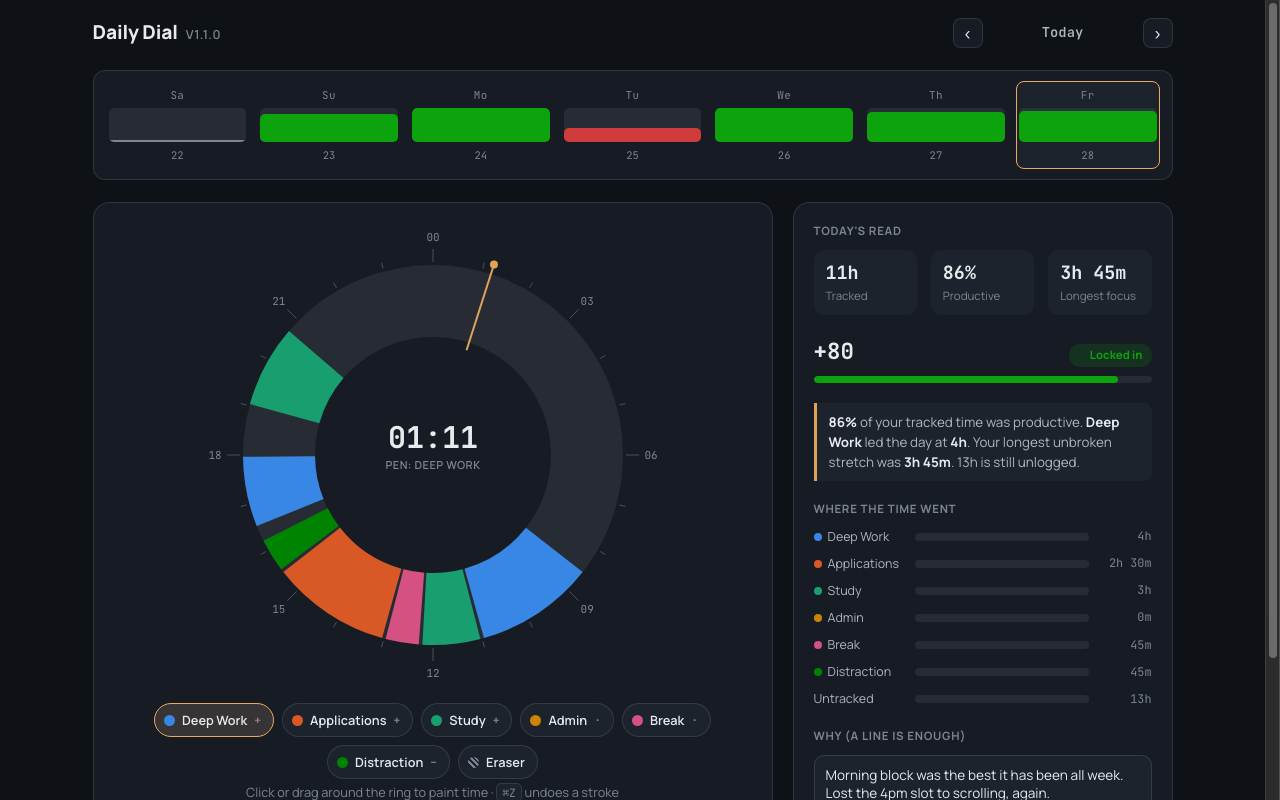
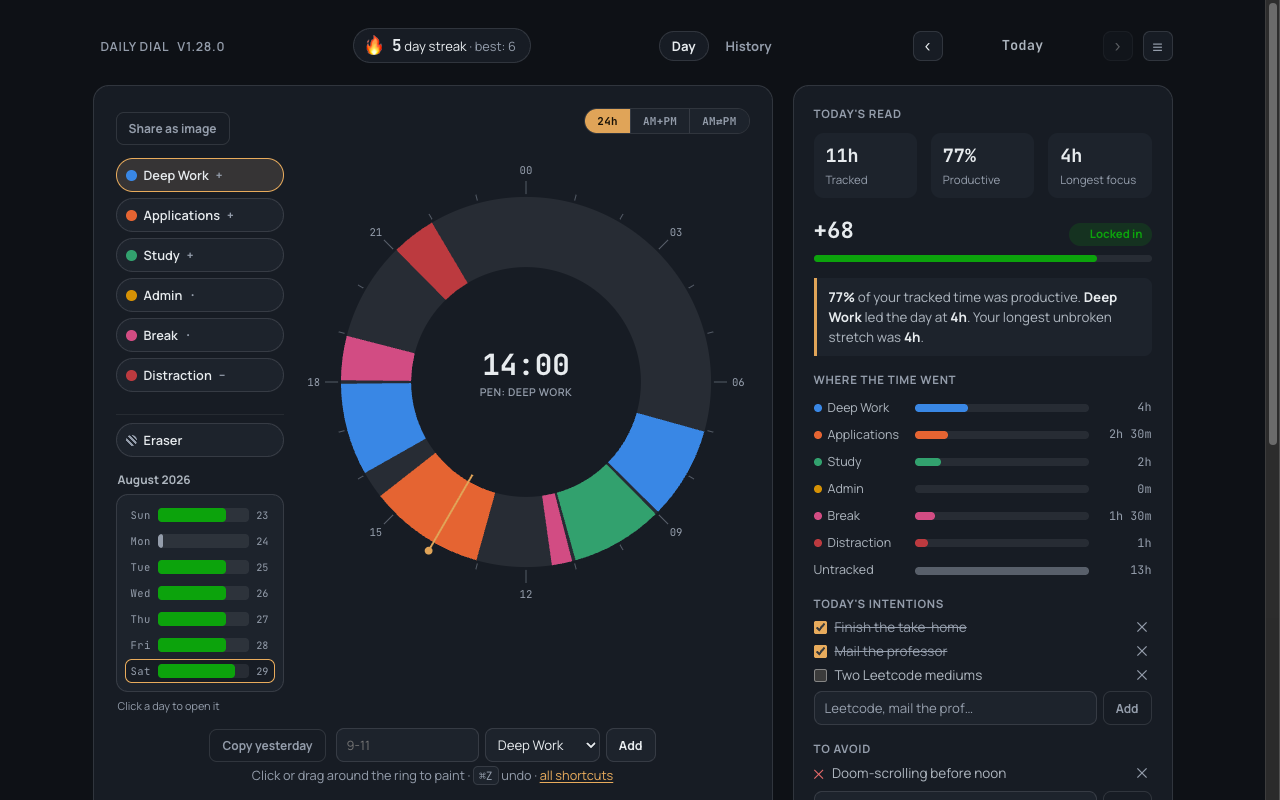
Regenerate the store screenshots, which were three months stale
Asked whether the store listing was updated, and the honest answer
was only half of it. The copy had a languages section, but:

The three screenshots -- the ones on the live Chrome Web Store, the
first thing anyone sees -- were generated at v1.1.0. They showed the
week strip above the dial and the pens in a row beneath it, neither
of which has been true since the rail landed. They showed "V1.1.0".
And they showed Study and Distraction both in green, which is the
exact colour bug reported and fixed back in v1.11.0. A published
screenshot of a fixed bug.

Regenerated from the current build at exactly 1280x800. That size
matters: my first attempt came out 2560x1600 at 2x, which the Store
rejects outright. The getting-started images can be 2x; these cannot.

The listing copy had one stale claim, added by me two commits ago:
"Picks your browser's language automatically -- nothing to set" was
true when written and false the moment the language setting shipped.
Now "Follows your browser's language, or pick one yourself in
Settings".

Checked the rest of the description against the code rather than by
eye -- six category slots, 30-deep undo, no host permissions, no
content scripts, no tabs permission, MIT, ten locales. All still
true.

Added the missing step to the release checklist, since nothing
enforces any of this and it is how the listing drifted three months
in the first place.

diff --git a/CONTRIBUTING.md b/CONTRIBUTING.md
@@ -194,6 +194,22 @@ Maintainers only:
 4. Commit, then `git tag -a vX.Y.Z -m "..."` and push the tag
 5. CI builds the zip and attaches it to the GitHub release
 
+**If the release changed the layout, regenerate the screenshots.** Nothing
+checks these, and they drift silently — the published listing spent several
+versions showing a screenshot with the old layout, the wrong version number,
+and the Study/Distraction colour bug that had already been fixed. They are
+the first thing a prospective user sees.
+
+| Asset | Size | Must match |
+|---|---|---|
+| `docs/store/screenshot-*.png` | exactly 1280×800 | the Store rejects other sizes |
+| `docs/store/promo-*.png` | 440×280, 1400×560 | only needed if featured |
+| `docs/getting-started/*.png` | any, 2× is fine | linked from GETTING_STARTED.md |
+
+Check `docs/STORE_LISTING.md` in the same pass: it carries factual claims
+(permissions, category count, undo depth, the language list) that a release
+can quietly falsify.
+
 ## Code of conduct
 
 By participating you agree to the [Code of Conduct](CODE_OF_CONDUCT.md).

diff --git a/docs/STORE_LISTING.md b/docs/STORE_LISTING.md
@@ -104,7 +104,7 @@ Defaults: Deep Work · Applications · Study · Admin · Break · Distraction
 
 🌍 IN YOUR LANGUAGE
 🗣 English · العربية · 中文 · Français · Deutsch · हिन्दी · 日本語 · Português (BR) · Русский · Español
-🔤 Picks your browser's language automatically — nothing to set
+🔤 Follows your browser's language, or pick one yourself in Settings
 ↔ Arabic reads right to left, layout and all
 ✍ Only the app is translated — your own notes and category names stay exactly as you wrote them
 
